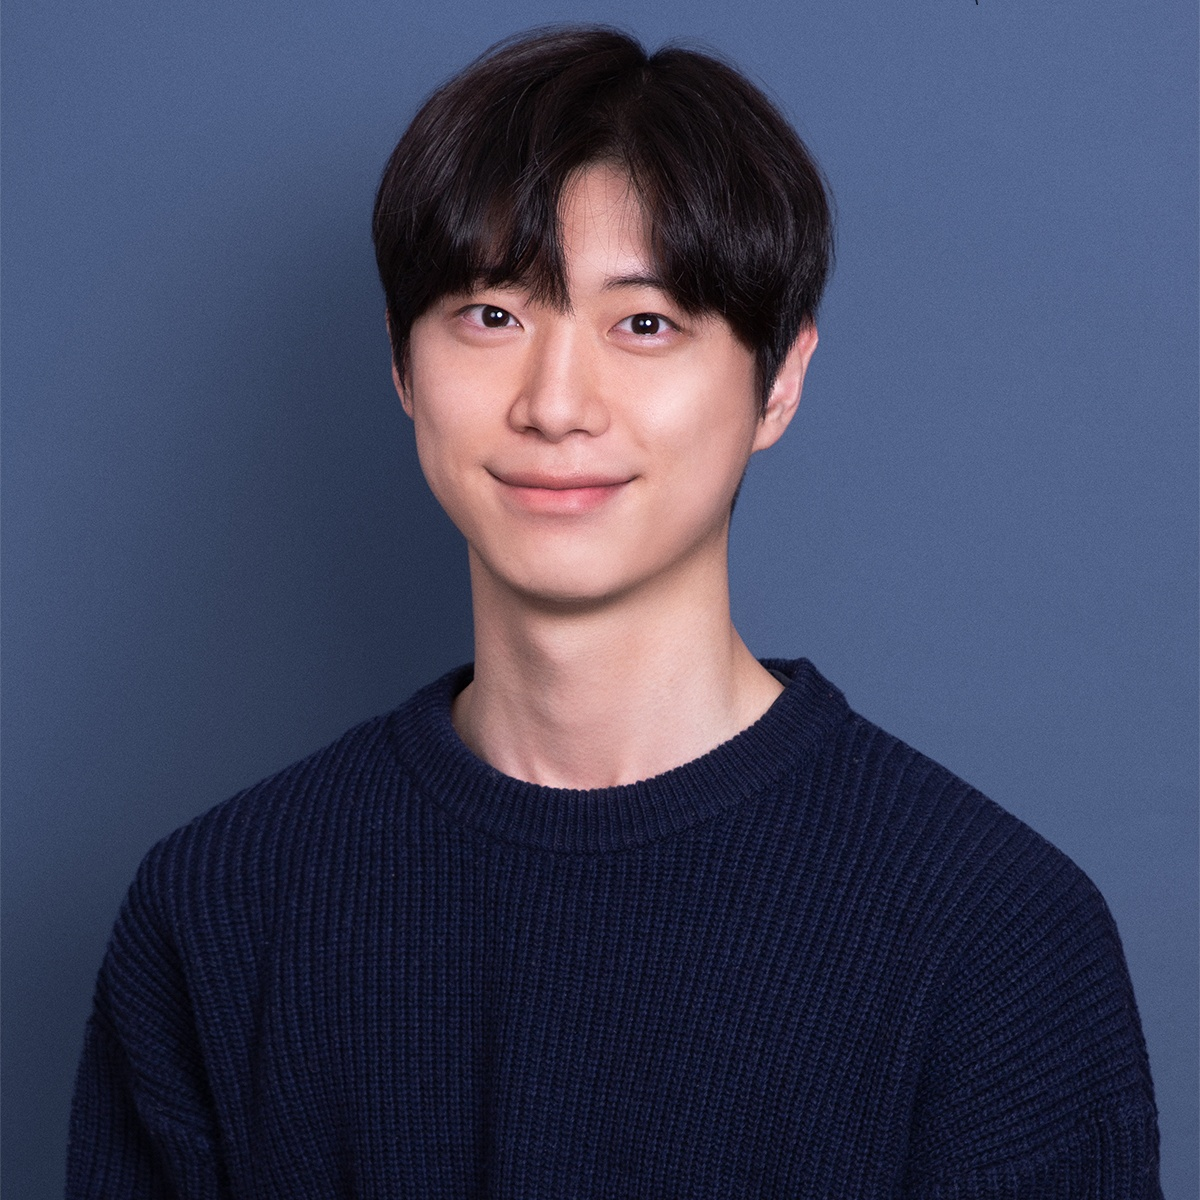
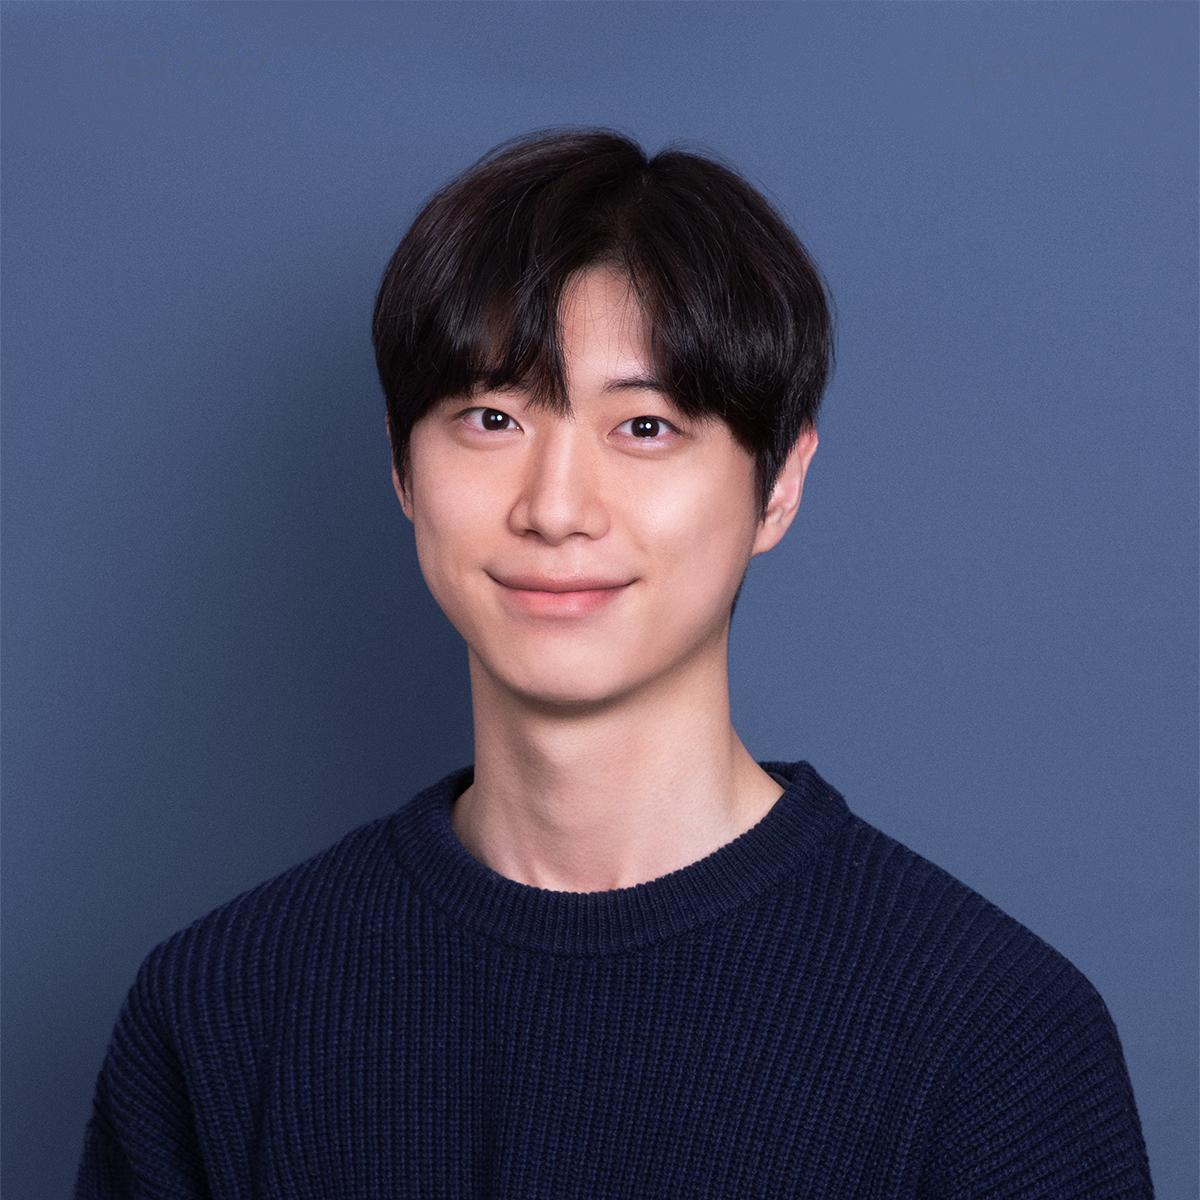
FEATURE: new font and images

diff --git a/assets/css/style.css b/assets/css/style.css
@@ -4,7 +4,8 @@ html { box-sizing: border-box; }
 *, *:before, *:after { box-sizing: inherit; }
 
 body {
-    font-family: "Georgia", "Times New Roman", serif;
+    font-family: "EB Garamond", "Georgia", "Times New Roman", "Noto Serif KR", serif;
+    font-size: 18px;
     color: #222;
     background: #ffffff;
     line-height: 1.55;
@@ -25,7 +26,7 @@ a {
 }
 a:hover { color: #f09228; text-decoration: underline; }
 
-h1, h2, h3 { font-family: "Helvetica Neue", Helvetica, Arial, sans-serif; color: #111; }
+h1, h2, h3 { font-family: "EB Garamond", "Georgia", "Times New Roman", "Noto Serif KR", serif; color: #111; }
 h1 { font-size: 28px; margin: 0 0 4px 0; font-weight: 500; }
 h2 { font-size: 20px; margin: 36px 0 12px 0; font-weight: 500; border-bottom: 1px solid #e6e6e6; padding-bottom: 4px; }
 h3 { font-size: 17px; margin: 18px 0 6px 0; font-weight: 600; }
@@ -68,7 +69,7 @@ hr {
 }
 .news table { border-collapse: collapse; width: 100%; }
 .news td { padding: 4px 6px; vertical-align: top; }
-.news td.date { white-space: nowrap; color: #555; width: 90px; font-family: "Helvetica Neue", sans-serif; }
+.news td.date { white-space: nowrap; color: #555; width: 90px; font-family: "EB Garamond", "Georgia", "Times New Roman", "Noto Serif KR", serif; }
 
 /* Research/projects table */
 .research { width: 100%; border-collapse: collapse; }
@@ -92,18 +93,18 @@ hr {
     align-items: center;
     justify-content: center;
     color: #aaa;
-    font-family: "Helvetica Neue", sans-serif;
+    font-family: "EB Garamond", "Georgia", "Times New Roman", "Noto Serif KR", serif;
     font-size: 13px;
 }
 .research .title { font-weight: 600; color: #111; font-size: 16px; }
 .research .desc { font-size: 14.5px; color: #333; margin-top: 4px; }
-.research .tags { font-size: 13px; color: #777; margin-top: 6px; font-family: "Helvetica Neue", sans-serif; }
+.research .tags { font-size: 13px; color: #777; margin-top: 6px; font-family: "EB Garamond", "Georgia", "Times New Roman", "Noto Serif KR", serif; }
 .research .tags a { color: #1772d0; }
 
 /* Posts list */
 .posts { list-style: none; padding: 0; }
 .posts li { padding: 8px 0; border-bottom: 1px solid #f0f0f0; }
-.posts .date { color: #777; font-size: 13px; font-family: "Helvetica Neue", sans-serif; margin-right: 10px; }
+.posts .date { color: #777; font-size: 13px; font-family: "EB Garamond", "Georgia", "Times New Roman", "Noto Serif KR", serif; margin-right: 10px; }
 
 footer {
     max-width: 800px;
@@ -112,20 +113,20 @@ footer {
     border-top: 1px solid #eee;
     color: #888;
     text-align: right;
-    font-family: "Helvetica Neue", sans-serif;
+    font-family: "EB Garamond", "Georgia", "Times New Roman", "Noto Serif KR", serif;
 }
 footer small { font-size: 12px; }
 
 /* Post page */
 article.post { font-size: 16px; }
 article.post h1 { margin-top: 0; font-size: 26px; }
-article.post .meta { color: #777; font-size: 13px; margin-bottom: 24px; font-family: "Helvetica Neue", sans-serif; }
+article.post .meta { color: #777; font-size: 13px; margin-bottom: 24px; font-family: "EB Garamond", "Georgia", "Times New Roman", "Noto Serif KR", serif; }
 article.post p { margin: 14px 0; }
 article.post em, article.post i { color: #444; }
 
 /* Project page */
 article.project .title { font-size: 24px; font-weight: 500; margin-bottom: 4px; }
-article.project .links { font-family: "Helvetica Neue", sans-serif; font-size: 14px; margin-bottom: 16px; }
+article.project .links { font-family: "EB Garamond", "Georgia", "Times New Roman", "Noto Serif KR", serif; font-size: 14px; margin-bottom: 16px; }
 article.project .links a { margin-right: 10px; }
 article.project h2 { font-size: 17px; }
 

diff --git a/_includes/head.html b/_includes/head.html
@@ -5,4 +5,7 @@
 <meta name="author" content="Minsoo Ha">
 <meta name="viewport" content="width=device-width, initial-scale=1">
 <link rel="icon" href="/assets/images/favicon.png" type="image/png">
+<link rel="preconnect" href="https://fonts.googleapis.com">
+<link rel="preconnect" href="https://fonts.gstatic.com" crossorigin>
+<link href="https://fonts.googleapis.com/css2?family=EB+Garamond:ital,wght@0,400;0,500;0,600;0,700;1,400;1,600&family=Noto+Serif+KR:wght@400;500;600;700&display=swap" rel="stylesheet">
 <link rel="stylesheet" href="/assets/css/style.css">

diff --git a/index.md b/index.md
@@ -10,7 +10,7 @@ layout: default
         <div class="affil">
             B.S. in Mathematics<br>
             Pohang University of Science and Technology (POSTECH)<br>
-            <span style="font-family:'Helvetica Neue',sans-serif; font-size:13px;">haminsoo0926 [at] gmail [dot] com</span>
+            <span style="font-family:'EB Garamond','Georgia','Times New Roman','Noto Serif KR',serif; font-size:13px;">haminsoo0926 [at] gmail [dot] com</span>
         </div>
         <div class="links">
             <a href="/cv.pdf">CV</a> /
@@ -32,8 +32,8 @@ AI**, and the algorithmic foundations of large language models. I am
 especially drawn to problems where mathematical structure can be used to make
 learning systems more reliable, interpretable, and provably correct.
 
-Alongside my research, I am building a service [KnowGem](https://knowgem.net), a
-knowledge-graph workspace for hallucination-free reasoning over documents.
+Alongside my research, I am deeply interested in software engineering and passionate about building products that deliver real-world impact. 
+In line with this commitment, I am currently building a service [KnowGem](https://knowgem.net), a knowledge-graph workspace for hallucination-free reasoning over documents.
 
 ## News
 
@@ -57,7 +57,7 @@ knowledge-graph workspace for hallucination-free reasoning over documents.
 ## Education
 
 - **POSTECH**, B.S. in Mathematics (Feb 2020 – present)
-  <span style="font-family:'Helvetica Neue',sans-serif; font-size:13px; color:#555;">
+  <span style="font-family:'EB Garamond','Georgia','Times New Roman','Noto Serif KR',serif; font-size:13px; color:#555;">
   GPA 3.75 / 4.30 &nbsp;·&nbsp; Major GPA 3.87 / 4.30 &nbsp;·&nbsp;
   Coursework: Analysis, Probability Theory, Machine Learning
   </span>
